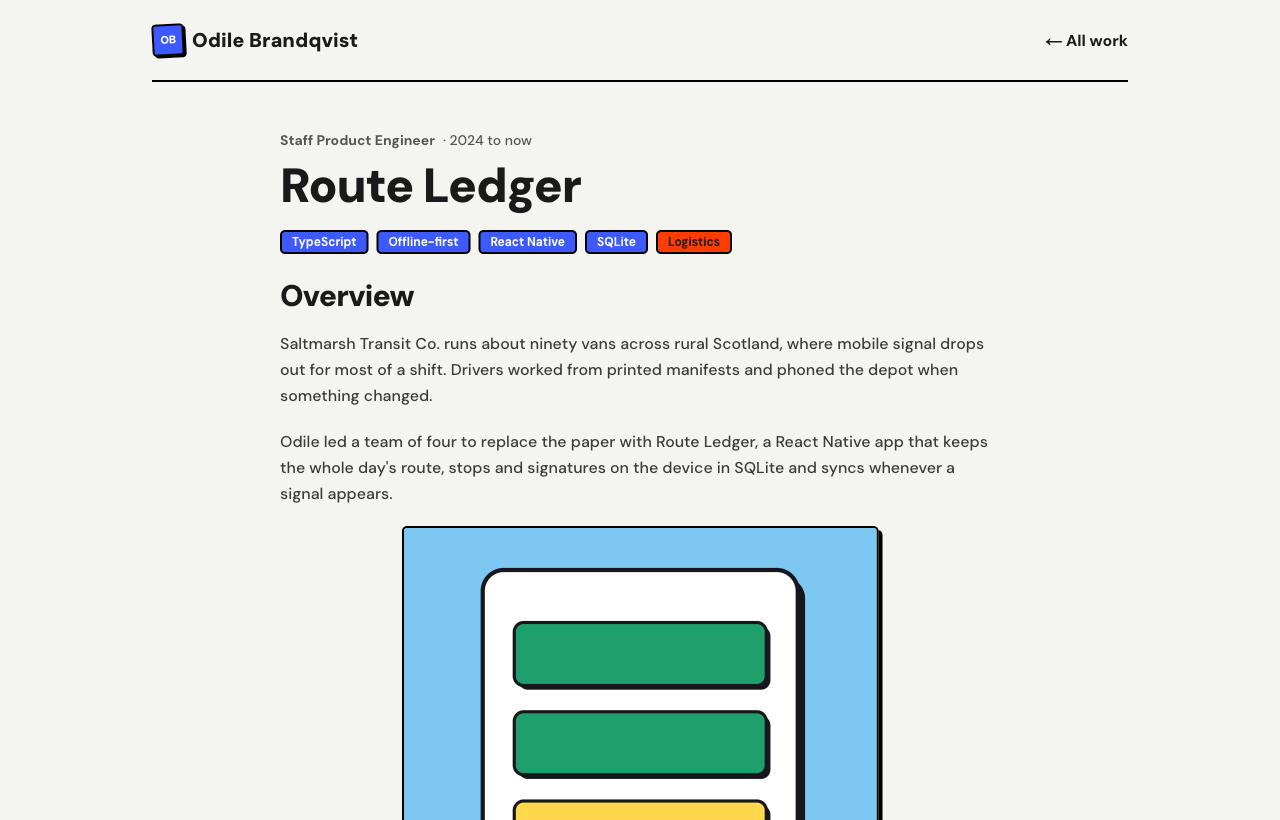
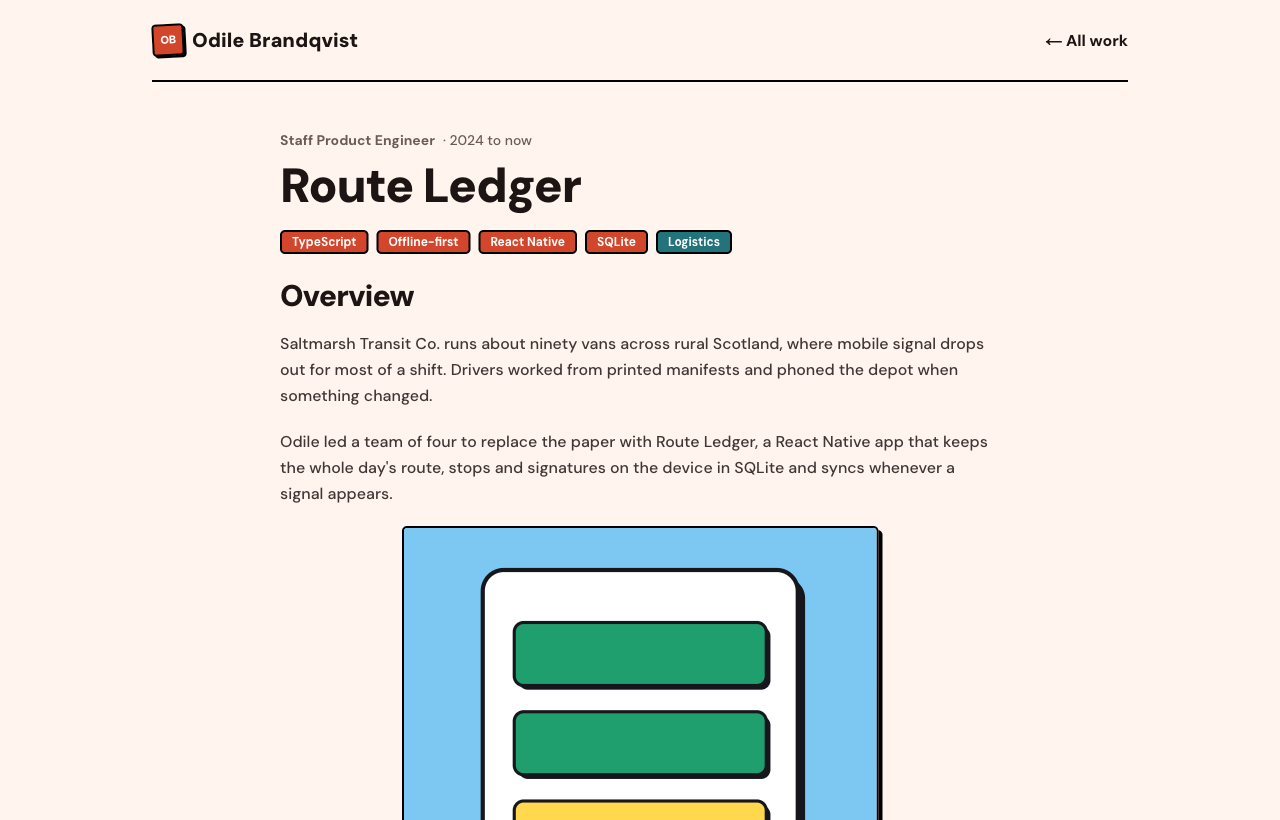
Coral as the default theme, screenshots retaken

Changed region(s): [[0.2188, 0.2744, 0.5938, 0.3049], [0.0938, 0.0305, 0.1562, 0.061]]

diff --git a/site.config.ts b/site.config.ts
@@ -61,8 +61,8 @@ export const siteConfig = {
   // block, cobalt, coral, burst, twist, mint, playful, nature, earthy, and the
   // pastels peach, lavender and sky, and the neutrals stone, sand, slate and
   // graphite (see themes.ts). To change single colours:
-  // theme: { ...themes.block, primary: "#2244dd" },
-  theme: themes.block,
+  // theme: { ...themes.coral, primary: "#b83a22" },
+  theme: themes.coral,
 
   hero: {
     badge: "Product Engineer",

diff --git a/README.md b/README.md
@@ -210,7 +210,7 @@ Without `DATABASE_URL` the steps are skipped and only the site is built. `npm ru
 
 ![Ready-made colour themes, each shown as a small card with a headline, buttons and its palette](docs/images/themes.png)
 
-Pick a theme in `site.config.ts` with one line, for example `theme: themes.coral`. The themes live in `themes.ts`. To change single colours, spread a theme and override what you need: `theme: { ...themes.block, primary: "#2244dd" }`. Every button colour in the ready-made themes passes WCAG AA contrast (text stays readable on it).
+Pick a theme in `site.config.ts` with one line, for example `theme: themes.slate`. Coral is the default. The themes live in `themes.ts`. To change single colours, spread a theme and override what you need: `theme: { ...themes.coral, primary: "#b83a22" }`. Every button colour in the ready-made themes passes WCAG AA contrast (text stays readable on it).
 
 ## Feature flags
 
